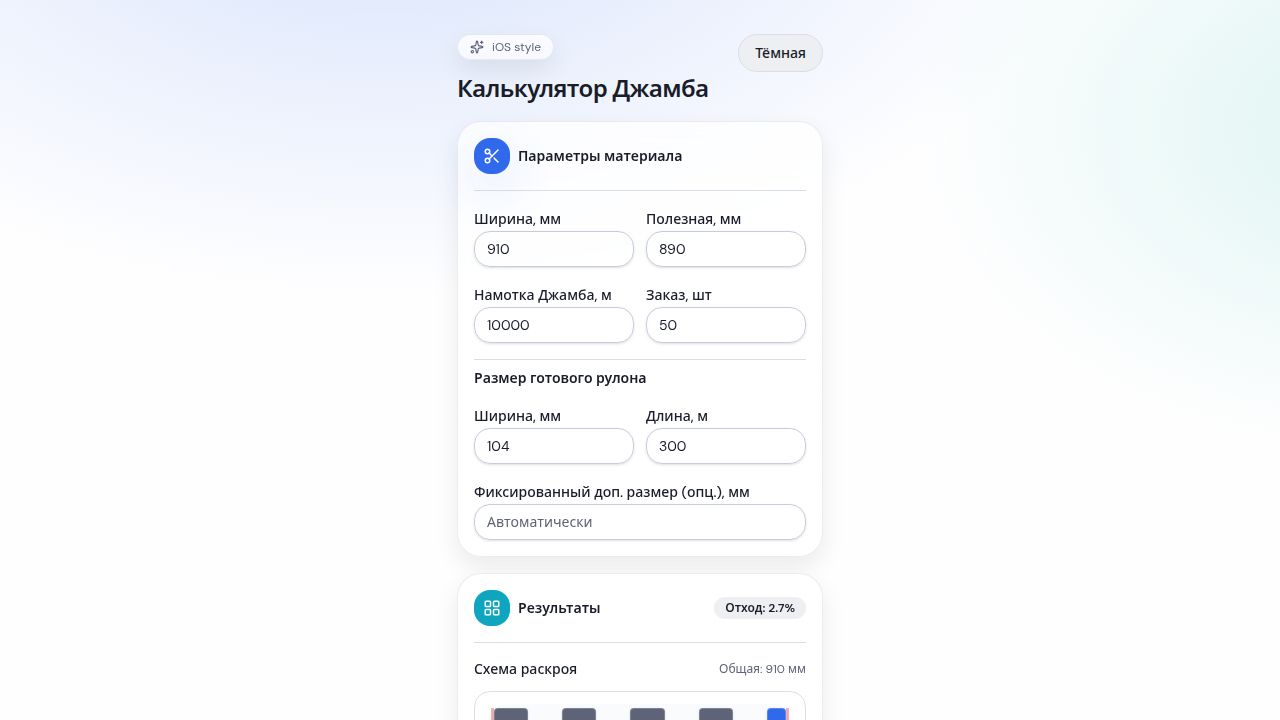
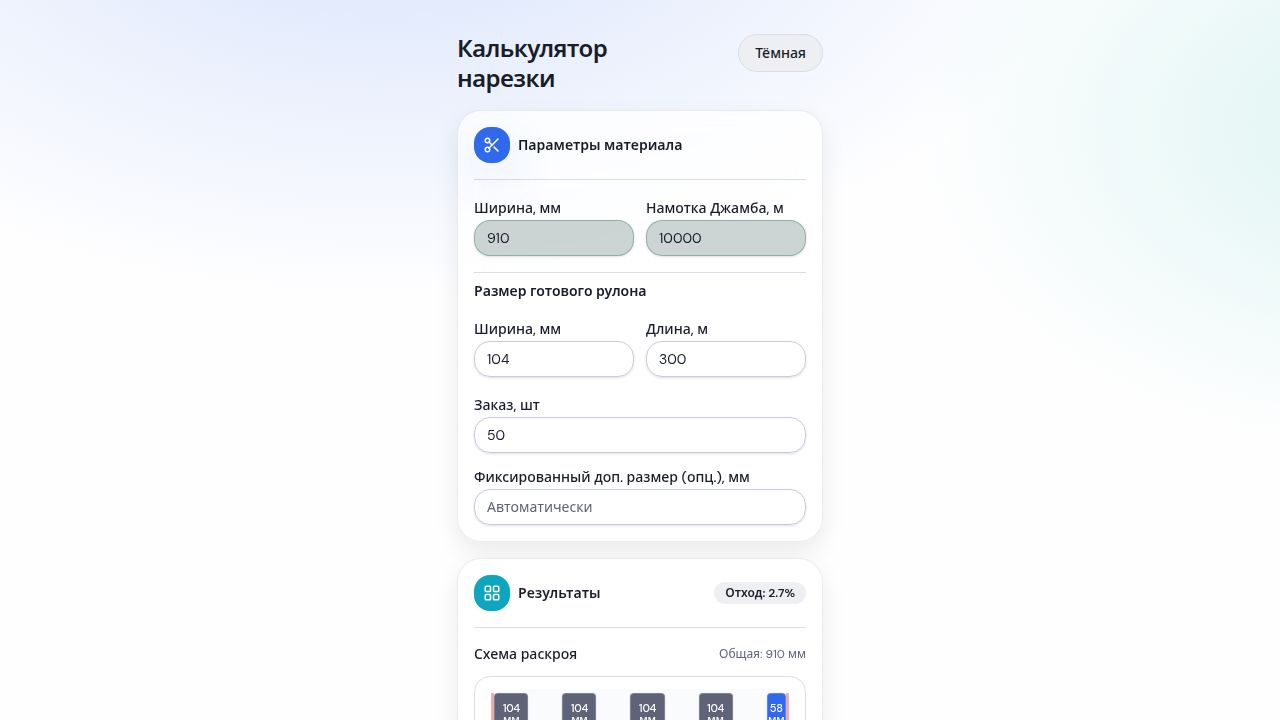
Rearrange material parameters and update styling for clarity
Update client/src/pages/roll-cutting-calculator.tsx to relocate the 'Order, pcs' field to the material parameters section and apply a green background theme.

Replit-Commit-Author: Agent
Replit-Commit-Session-Id: 3075c0cf-6cb8-470a-a31b-b6de87e3c130
Replit-Commit-Checkpoint-Type: full_checkpoint
Replit-Commit-Event-Id: c95eaad2-48d3-4aa2-819e-67c24d987062
Replit-Commit-Screenshot-Url: https://storage.googleapis.com/screenshot-production-us-central1/e53bd71e-ac58-4c63-ad96-57379af40cd0/3075c0cf-6cb8-470a-a31b-b6de87e3c130/jEU8El4
Replit-Helium-Checkpoint-Created: true

diff --git a/client/src/pages/roll-cutting-calculator.tsx b/client/src/pages/roll-cutting-calculator.tsx
@@ -376,6 +376,29 @@ export default function RollCuttingCalculatorPage() {
                     />
                   </div>
                   
+                  <div className="space-y-3">
+                    <FormField
+                      control={form.control}
+                      name="orderRolls"
+                      render={({ field }) => (
+                        <FormItem>
+                          <FormLabel data-testid="label-order">
+                            Заказ, шт
+                          </FormLabel>
+                          <FormControl>
+                            <Input
+                              {...field}
+                              inputMode="numeric"
+                              type="number"
+                              className="rounded-2xl bg-emerald-950/20 border-emerald-800/30 focus-visible:ring-emerald-500/30"
+                            />
+                          </FormControl>
+                          <FormMessage />
+                        </FormItem>
+                      )}
+                    />
+                  </div>
+                  
                   {/* Hidden field for useful width since we auto-calculate it but form needs it */}
                   <div className="hidden">
                     <FormField
@@ -391,29 +414,6 @@ export default function RollCuttingCalculatorPage() {
                     />
                   </div>
                   
-                  <div className="grid grid-cols-2 gap-3">
-                    <FormField
-                      control={form.control}
-                      name="orderRolls"
-                      render={({ field }) => (
-                        <FormItem>
-                          <FormLabel data-testid="label-order">
-                            Заказ, шт
-                          </FormLabel>
-                          <FormControl>
-                            <Input
-                              {...field}
-                              inputMode="numeric"
-                              type="number"
-                              className="rounded-2xl"
-                            />
-                          </FormControl>
-                          <FormMessage />
-                        </FormItem>
-                      )}
-                    />
-                  </div>
-
                   <Separator className="my-2" />
                   
                   <div className="text-sm font-semibold">Размер готового рулона</div>
@@ -462,29 +462,31 @@ export default function RollCuttingCalculatorPage() {
                     />
                   </div>
 
-                  <FormField
-                    control={form.control}
-                    name="additionalWidthMm"
-                    render={({ field }) => (
-                      <FormItem>
-                        <FormLabel data-testid="label-add-width">
-                          Фиксированный доп. размер (опц.), мм
-                        </FormLabel>
-                        <FormControl>
-                          <Input
-                            {...field}
-                            value={field.value ?? ""}
-                            inputMode="decimal"
-                            type="number"
-                            step="0.1"
-                            className="rounded-2xl"
-                            placeholder="Автоматически"
-                          />
-                        </FormControl>
-                        <FormMessage />
-                      </FormItem>
-                    )}
-                  />
+                  <div className="space-y-3">
+                    <FormField
+                      control={form.control}
+                      name="additionalWidthMm"
+                      render={({ field }) => (
+                        <FormItem>
+                          <FormLabel data-testid="label-add-width">
+                            Фиксированный доп. размер (опц.), мм
+                          </FormLabel>
+                          <FormControl>
+                            <Input
+                              {...field}
+                              value={field.value ?? ""}
+                              inputMode="decimal"
+                              type="number"
+                              step="0.1"
+                              className="rounded-2xl"
+                              placeholder="Автоматически"
+                            />
+                          </FormControl>
+                          <FormMessage />
+                        </FormItem>
+                      )}
+                    />
+                  </div>
 
                 </form>
               </Form>